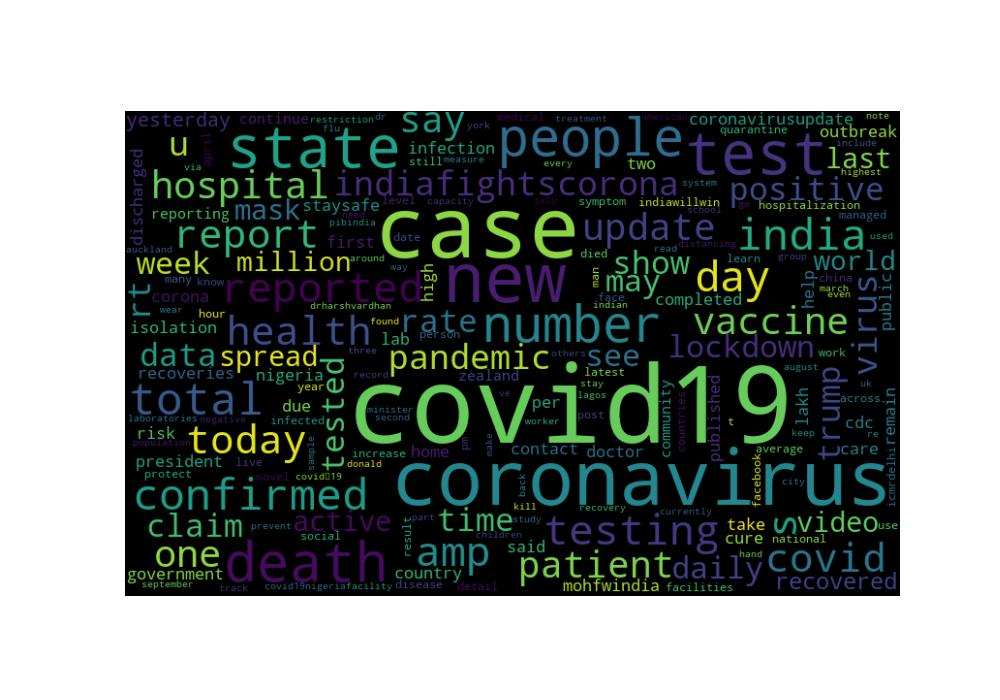
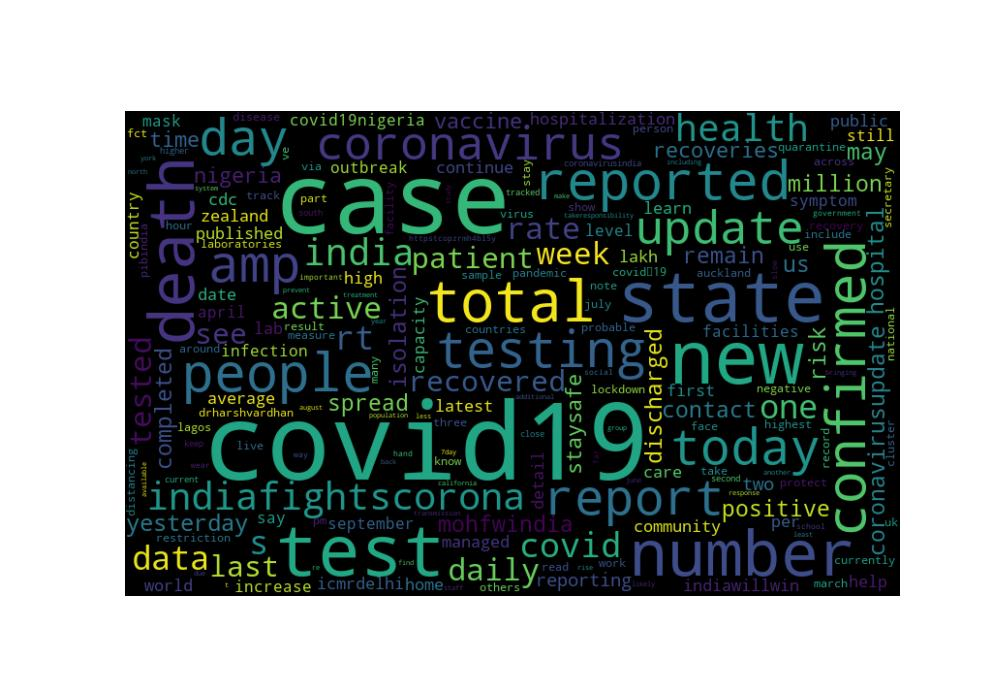
Images on Analysis page

Changed region(s): [[0.124, 0.15, 0.899, 0.87]]

diff --git a/Flask_App/templates/analysis.html b/Flask_App/templates/analysis.html
@@ -14,12 +14,19 @@
 				border-spacing: 30px;
 			}
 
-			tr,
-			td {
+			tr,td {
 				padding: 10px;
 				padding-left: 20px;
 				padding-right: 40px;
 				border-bottom: 1px solid #ddd;
+			}
+			tr.images {
+				text-align: center;
+				padding-bottom: 100px;
+			}
+			td.images {
+				width: 25%;
+				padding:0%;
 			}
 		</style>
 </head>
@@ -111,22 +118,23 @@
 				{%endfor%}
 			</table>
 		</div>
-		<div class='container-fluid'>
 			<table>
-				<tr style="font-weight:bold">
+				<tr class = "images" style="font-weight:bold">
+					<td width="25%">Confusion Matrix</td>
 					<td width="25%">Real Word Cloud</td>
 					<td width="25%">Fake Word Cloud</td>
-					<td width="25%">Confusion Matrix</td>
 					<td width="25%">Word Frequency</td>
 				</tr>
-				<tr>
-					<td><img src="/static/img_realCloud.jpg"></td>
-					<td><img src="/static/img_fakeCloud.jpg"></td>
-					<td><img src="/static/img_confMatrix.jpg"></td>
-					<td><img src="/static/img_freqWords.jpg"></td>
+				<tr class="images">
+					<td  class="images"><img src="/static/img_confMatrix.jpg" width="100%"></td>
+					<td  class="images"><img src="/static/img_realCloud.jpg" width="100%"></td>
+					<td  class="images"><img src="/static/img_fakeCloud.jpg" width="100%"></td>
+					<td  class="images"><img src="/static/img_freqWords.jpg" width="100%"></td>
 				</tr>
 			</table>
-		</div>
+			<br>
+			<br>
+			<br>
 	</div>
 </body>
 

diff --git a/Flask_App/machLearn.py b/Flask_App/machLearn.py
@@ -74,8 +74,8 @@ def preprocess(dataset):
     print(countFalse)
 
     # Add flag to track fake and real articles
-    dataset['target1'] = 'fake'
-    dataset['target2'] = 'true'
+    #dataset['target1'] = 'fake'
+    #dataset['target2'] = 'true'
 
     # Remove any unknown or unlabeled rows
     dataset.drop(dataset[dataset['label'] == 'U'].index, inplace = True)
@@ -109,7 +109,7 @@ def preprocess(dataset):
 
 ###  Word cloud for FAKE news  ###
 def fakeCloud(dataset):
-    fake_data = dataset[dataset["target1"] == "fake"]
+    fake_data = dataset[dataset["label"] == "fake"]
     all_words = ' '.join([text for text in fake_data.text])
 
     wordcloud = WordCloud(width = 800,
@@ -122,7 +122,7 @@ def fakeCloud(dataset):
     plt.axis("off")
 
     # Saves word cloud as jpg
-    plt.savefig('img_fakeCloud.jpg')
+    plt.savefig('static/img_fakeCloud.jpg')
 
     # Displays word cloud to screen
     #plt.show()
@@ -130,7 +130,7 @@ def fakeCloud(dataset):
 
 ###  Word cloud for REAL news  ###
 def realCloud(dataset):
-    real_data = dataset[dataset["target2"] == "true"]
+    real_data = dataset[dataset["label"] == "real"]
     all_words = ' '.join([text for text in real_data.text])
 
     wordcloud = WordCloud(width = 800,
@@ -143,7 +143,7 @@ def realCloud(dataset):
     plt.axis("off")
 
     # Saves word cloud as jpg
-    plt.savefig('img_realCloud.jpg')
+    plt.savefig('static/img_realCloud.jpg')
 
     # Displays word cloud to screen
     #plt.show()
@@ -163,7 +163,7 @@ def counter(text, column_text, quantity, token_space):
     plt.xticks(rotation = 'vertical')
 
     # Saves frequent words table as jpg
-    plt.savefig('img_freqWords.jpg')
+    plt.savefig('static/img_freqWords.jpg')
 
     # Displays frequent words table to screen
     # plt.show()
@@ -174,7 +174,7 @@ def countWords(dataset):
     token_space = tokenize.WhitespaceTokenizer()
 
     # Most frequent words in fake news
-    counter(dataset[dataset['target1'] == "fake"], "text", 20, token_space)
+    counter(dataset[dataset['label'] == "fake"], "text", 20, token_space)
 
     # Most frequent words in real news
     #counter(dataset[dataset['target2'] == "true"], "text", 20, token_space)
@@ -220,11 +220,11 @@ def plotConfusionMatrix(cm, classes,
     plt.xlabel('Predicted label')
 
     # Saves confusion matrix as jpg
-    plt.savefig('img_confMatrix.jpg')
+    plt.savefig('static/img_confMatrix.jpg')
 
     # Displays confusion matrix to the screen
     # plt.show()
-
+    plt.close()
 
 ###   Display Confustion Matrix  ###
 def dispConfusionMatrix(y_test, predicted):
